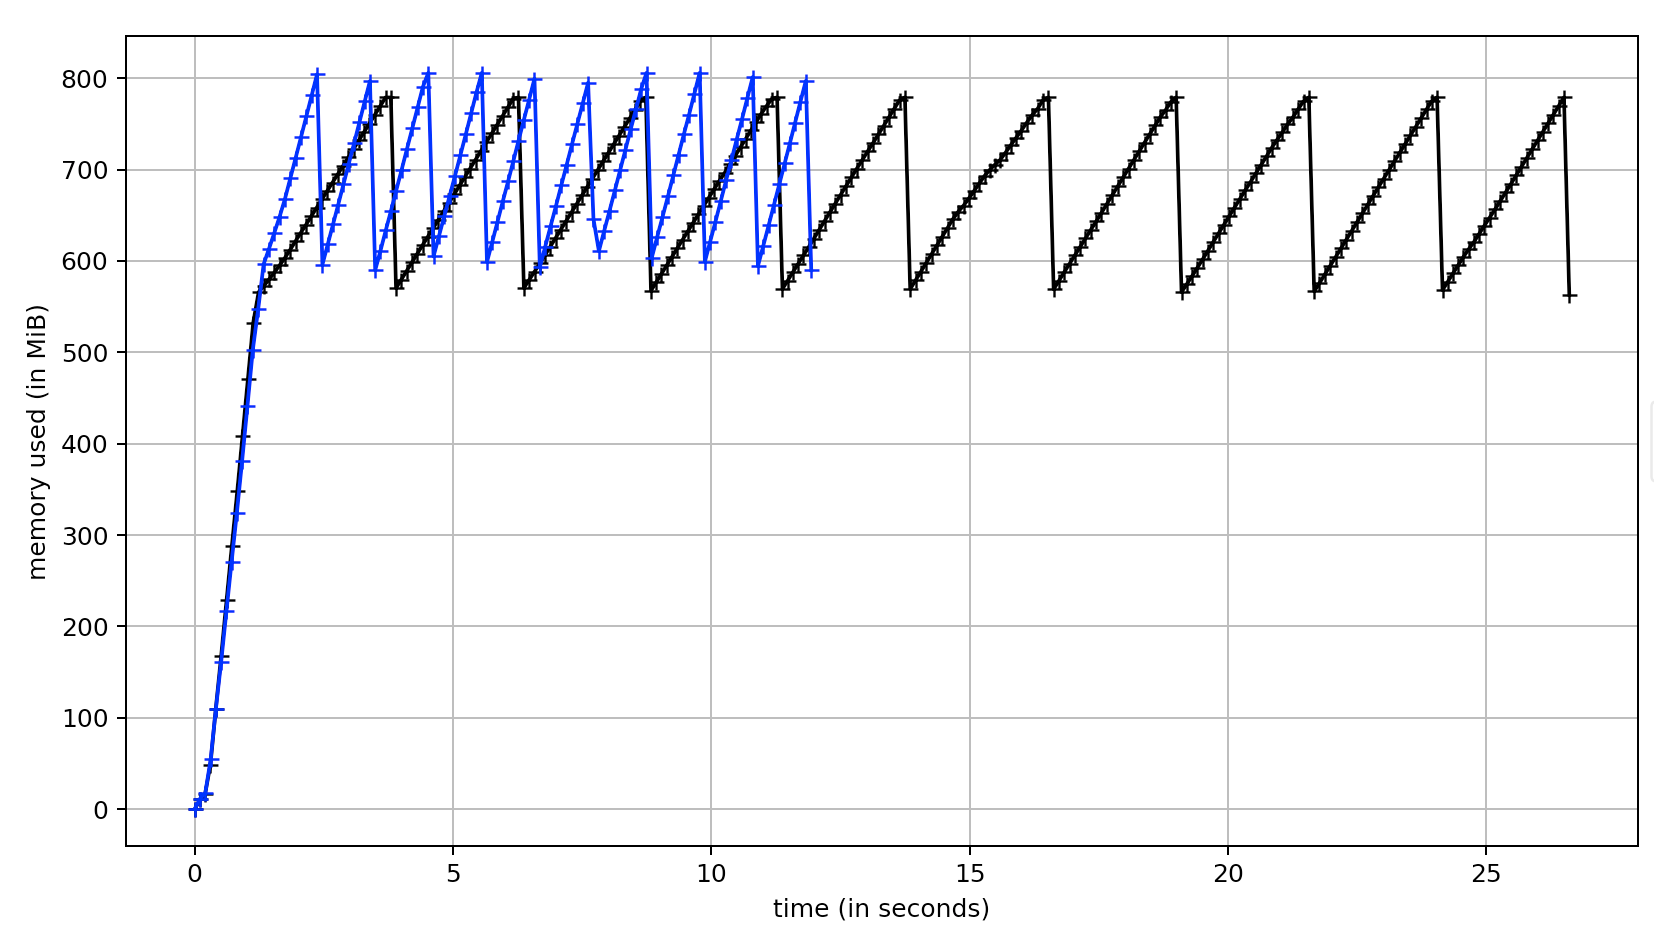
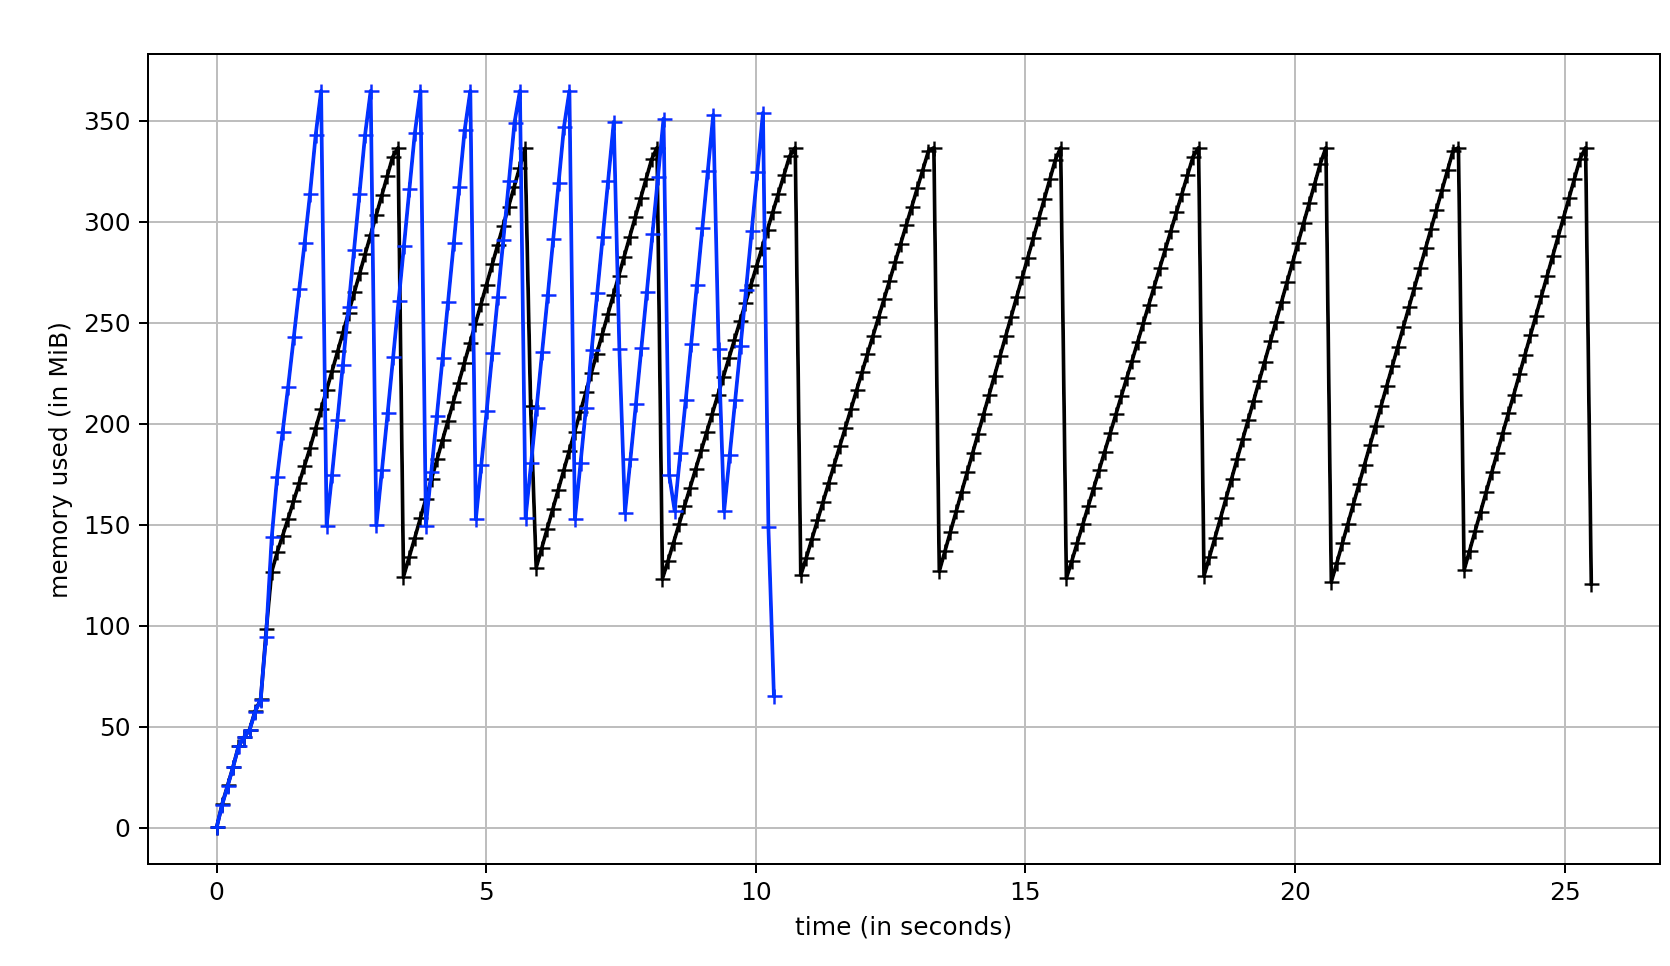
docs: update random binary benchmark

Changed region(s): [[0.0, 0.0309, 1.0, 0.9893], [0.2467, 0.6183, 0.3083, 0.6802], [0.5859, 0.6183, 0.6167, 0.6802]]

diff --git a/benchmarks/README.md b/benchmarks/README.md
@@ -112,10 +112,7 @@ s = [
   [[1,1,1], [1,1,1], [1,1,1]]
 ]
 
-labels = [ 
-  np.random.randint(0,2, size=(384, 384, 384), dtype=np.bool) 
-  for _ in range(10)
-]
+labels = np.random.randint(0,2, size=(384, 384, 384), dtype=np.bool)
 
 for label in labels:
   # scipy.ndimage.measurements.label(label, structure=s) # black
@@ -125,30 +122,30 @@ for label in labels:
 ## 26-connected
 
 <p style="font-style: italics;" align="center">
-<img height=384 src="https://raw.githubusercontent.com/seung-lab/connected-components-3d/master/benchmarks/cc3d_vs_scipy_random_binary_images_26.png" alt="Fig. 3: SciPy vs cc3d run ten times on ten 384x384x384 random binary images using 26-connectivity. (black) SciPy 1.5.2 (blue) cc3d 1.13.0" /><br>
-Fig. 3: SciPy vs cc3d run ten times on ten 384x384x384 random binary images. (black) SciPy 1.5.2 (blue) cc3d 1.13.0
+<img height=384 src="https://raw.githubusercontent.com/seung-lab/connected-components-3d/master/benchmarks/cc3d_vs_scipy_random_binary_images_26.png" alt="Fig. 3: SciPy vs cc3d run ten times on a 384x384x384 random binary image using 26-connectivity. (black) SciPy 1.6.0 (blue) cc3d 3.1.0" /><br>
+Fig. 3: SciPy vs cc3d run ten times on a 384x384x384 random binary image. (black) SciPy 1.5.2 (blue) cc3d 1.13.0
 </p>   
 
-On random binary images, SciPy marginally wins on memory with a peak memory cosumption of about 790 MB vs. cc3d with a peak consumption of about 800 MB (1.01x). However, SciPy doesn't perform as well as cc3d in running time with an average run time of 2.41 sec versus 1.03 sec per label set. Bear in mind that 10 binary images are stored in memory at once, inflating the baseline. Each image is about 56MB, so 10 of them are about 560MB. With interpreter overhead, the baseline is somewhere around 600 MB. Therefore, they use about 200 MB.
+On random binary images, SciPy marginally wins on memory with a peak memory cosumption of 337 MB vs. cc3d with a peak consumption of about 363 MB (1.08x). However, SciPy doesn't perform as well as cc3d in running time with an average run time of 2.45 sec versus 0.92 sec per label set. 
 
 | Trial             | MVx/sec | MB/sec | Rel. Perf. |
 |-------------------|---------|--------|------------|
-| SciPy 1.5.2       | 23.4    | 23.4   | 1.00x      |
-| cc3d 1.13.0       | 54.7    | 54.7   | 2.34x      |
+| SciPy 1.6.0       | 23.1    | 23.1   | 1.0x       |
+| cc3d 3.1.0        | 61.7    | 61.7   | 2.6x       |
 
 ## 6-connected
 
 <p style="font-style: italics;" align="center">
 <img height=384 src="https://raw.githubusercontent.com/seung-lab/connected-components-3d/master/benchmarks/cc3d_vs_scipy_random_binary_images_6.png" alt="Fig. 4: SciPy vs cc3d run ten times on ten 384x384x384 random binary images using 6-connectivity. (black) SciPy 1.5.2 (blue) cc3d 1.13.0" /><br>
-Fig. 4: SciPy vs cc3d run ten times on ten 384x384x384 random binary images using 6-connectivity. (black) SciPy 1.5.2 (blue) cc3d 1.13.0
+Fig. 4: SciPy vs cc3d run ten times on a 384x384x384 random binary image using 6-connectivity. (black) SciPy 1.6.0 (blue) cc3d 3.1.0
 </p>
 
-Here there's a slight difference in the memory usage. SciPy uses about 850 MB while cc3d uses 930 MB. Accounting for the ~600 MB of baseline, SciPy uses 250 MB and cc3d uses 330 MB (1.32x). At least for cc3d, the reason for additional memory usage is that 6-connectivity requires a larger union-find datastructure to handle the worst case than 26-connectivity (1/2 vs 1/8). The timings are more favorable though. scipy averages 1.35 seconds per volume vs cc3d averages 0.96 seconds per volume. 
+SciPy uses about 390 MB, which is oddly increasing, while cc3d uses 405 MB. SciPy averages 1.31 seconds per volume vs cc3d averages 0.95 seconds per volume. 
 
 | Trial             | MVx/sec | MB/sec | Rel. Perf. |
 |-------------------|---------|--------|------------|
-| SciPy 1.5.2       | 42.2    | 42.2   | 1.00x      |
-| cc3d 1.13.0       | 59.2    | 59.2   | 1.40x      |
+| SciPy 1.5.2       | 43.4    | 43.4   | 1.0x       |
+| cc3d 1.13.0       | 59.9    | 59.9   | 1.4x       |
 
 # 10x Head to Head: Black Cube
 
@@ -190,10 +187,4 @@ Fig. 6: 26-way cc3d and scipy peak memory usage and speed in selected releases a
 <img height=512 src="https://raw.githubusercontent.com/seung-lab/connected-components-3d/master/benchmarks/cc3d_6-way_connectomics_over_time.png" alt="Fig. 7: 6-way cc3d peak memory usage and speed in selected releases against a 512x512x512 connectomics dataset." /><br>
 Fig. 7: 6-way cc3d peak memory usage and speed in selected releases against a 512x512x512 connectomics dataset.
 </p>   
-
-
-
-
-
-
 
